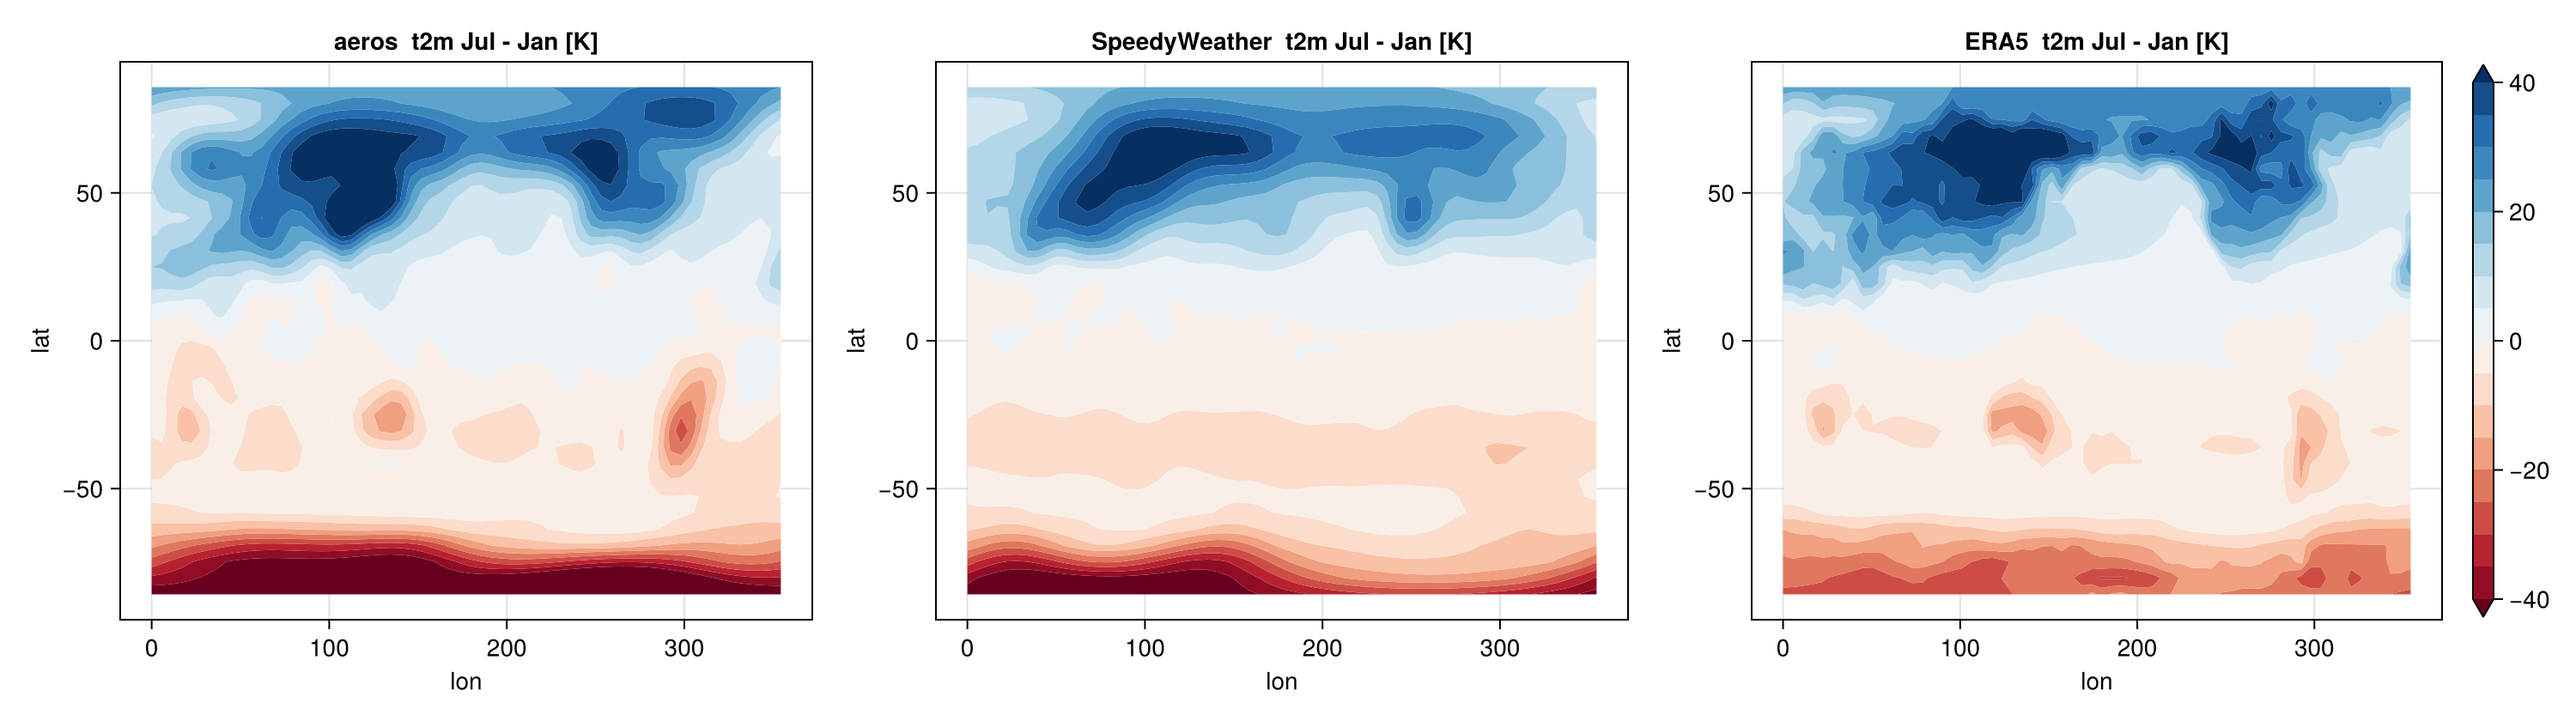
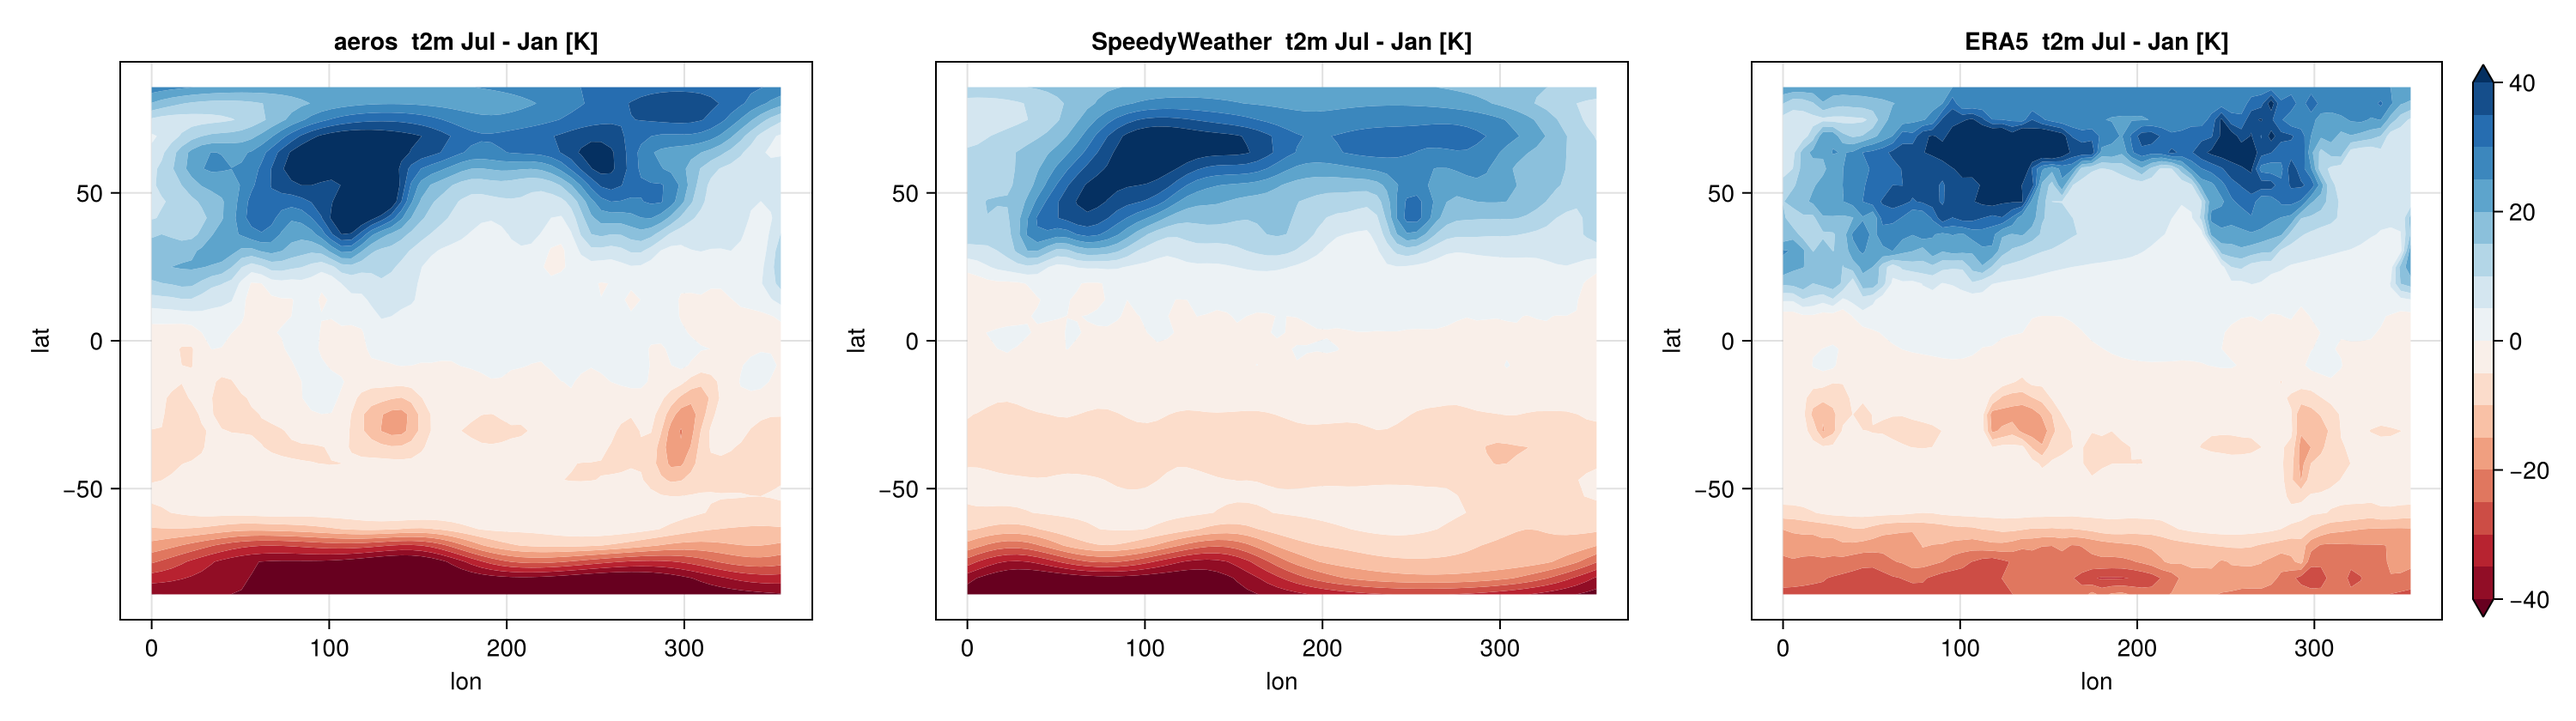
defaults: L6 vertical grid; L6 real-Earth climatology (P 2.2 mm/day, Z500* 85 m, 2810 SYPD)

Changed region(s): [[0.062, 0.1238, 0.31, 0.4333], [0.062, 0.4643, 0.31, 0.7119], [0.062, 0.681, 0.31, 0.8357]]

diff --git a/docs/m2_handoff.md b/docs/m2_handoff.md
@@ -9,7 +9,7 @@ All on `main` (last commits 59657fa, 90e9408, 63c7c4e), 26/26 tests, built with
 real-Earth T21 run: ERA5 orography, ERA5 land-sea mask with the bucket land + snow albedo,
 prescribed 2D seasonal ERA5 SST, seasonal insolation, ecCKD radiation with diagnostic clouds,
 Frierson SBM convection, SpeedyWeather-style condensation. **Namelist:**
-`mwm/D_realearth/aeros_realearth_T21L8.nml` (only physical keys; every numerical/core knob
+`mwm/D_realearth/aeros_realearth_T21L6.nml` (only physical keys; every numerical/core knob
 comes from `input/rce_defaults.nml`, which now IS the production recipe).
 
 Since the 2026-07-30 handoff the integration and the coupling were rebuilt (details in the
@@ -23,7 +23,7 @@ log sections below). What is different and load-bearing:
 | surface exchange | bulk-Richardson log-law coefficient per point (SW/Frierson 2006); SW surface wind (0.95 slowdown + 5 m/s gust) | fixed 1.5e-3, 1 m/s wind floor |
 | speed-limit drag | quadratic above 70 m/s (SW's default is 80) | none |
 | dynamical core | ∇⁸/4 h, divergence ∇⁸→∇⁴ above σ=0.2 on 1 h, α=1, no sponge — as defaults | opt-in |
-| vertical grid | **L8** default (stretched hybrid; L12 a namelist choice) | L12 |
+| vertical grid | **L6** default (stretched hybrid; L8/L12 namelist choices) | L12 |
 | dt | **3600 s** at T21 | 900 s |
 | monthly climatology | grid diagnostics refreshed at each sample; + precip2d, z500, vlow, evap, shf | stale (state of the last report) |
 
@@ -37,8 +37,8 @@ water-creating transport and stale monthly sampling. Treat them as history, not 
 |---|---|---|
 | L4 | 3650 | stable; harness metrics as good as L8 |
 | L5 | 3250 | |
-| L6 | 2860 | **to become the default next session** |
-| L8 | 2190 | current default; the 3-yr climatology below |
+| L6 | 2810 | **default since 2026-09-06**; the 3-yr climatology below |
+| L8 | 2190 | default 2026-09-05/06; `docs/refs/realearth_metrics_2026-09-05.md` |
 | L12 | 1870 | previous default |
 | SpeedyWeather T21L8 default | 1040 (1360 without the diagnostic callback) | leapfrog, dt 3600 |
 
@@ -46,12 +46,15 @@ Cost is close to linear in levels with a fixed overhead (transforms and physics 
 per level); aeros is ~2.5× faster than SpeedyWeather per step. L20 blew up at day 354 at
 dt=3600 (not investigated). SpeedyWeather's 8 levels are SPEEDY's (Molteni 2003).
 
-### Climatology, L8, 3 yr (aeros / SpeedyWeather / ERA5) — `docs/refs/realearth_metrics_2026-09-05.md`
+### Climatology, L6, 3 yr (aeros / SpeedyWeather / ERA5) — `docs/refs/realearth_metrics_2026-09-06_L6.md`
 
-precip = evap 2.0 / 3.3 / 2.9 mm/day · TOA −0.2 W/m² · lowest-level T 284.7 / 278 / 287.5 K
-· max [u] 56 / 63 / 34 m/s · DJF NH Z500* RMS 77 / 68 / 76 m · NH-land t2m Jul−Jan
-32.5 / 29 / 33.6 K. Figures in `docs/figures/realearth_*.png`. aeros' zonal temperature
-structure is closer to ERA5 than SpeedyWeather's (SW is cold aloft with a 235 K lid).
+precip = evap 2.2 / 3.3 / 2.9 mm/day · TOA +3.2 W/m² in yr 3 (−3.7 in yr 2: ±3 interannual)
+· lowest-level T 283.5 / 278 / 287.5 K · max [u] 52 / 63 / 34 m/s · DJF NH Z500* RMS
+85 / 68 / 76 m · NH-land t2m Jul−Jan 31.9 / 29 / 33.6 K · 2810 SYPD. Figures in
+`docs/figures/realearth_*.png`. Against L8 (`docs/refs/realearth_metrics_2026-09-05.md`):
+precip +0.2, lowest level 1.2 K colder, lid 226 vs 222 K, Z500* 85 vs 77 m (ERA5 76), +28%
+throughput. aeros' zonal temperature structure is closer to ERA5 than SpeedyWeather's
+(SW is cold aloft with a 235 K lid).
 
 **Known deficits, in the order to attack them:**
 1. **Saturated upper troposphere / lid** (RH ~100% above 200 hPa; ERA5 30–50%, SW dry at its
@@ -78,10 +81,10 @@ make all openmp=1 && make rce-long openmp=1
 # the 26 tests
 for t in libaeros/bin/test_*.x; do OMP_NUM_THREADS=5 $t > logs/suite_$(basename $t .x).log 2>&1 || echo FAIL $t; done
 # aeros 3-yr real-Earth climatology (2-yr spin-up + 1 yr monthly), ~2 min
-OMP_NUM_THREADS=10 libaeros/bin/rce_long.x mwm/D_realearth/aeros_realearth_T21L8.nml
+OMP_NUM_THREADS=10 libaeros/bin/rce_long.x mwm/D_realearth/aeros_realearth_T21L6.nml
 # SpeedyWeather yardstick (~3.5 min), then the comparison (figures + metrics table)
 julia --project=mwm/D_realearth -t 10 mwm/D_realearth/sw_realearth.jl 730 1 21 8
-julia mwm/D_realearth/compare_realearth.jl mwm/D_realearth/output/aeros_realearth_T21L8.nc
+julia mwm/D_realearth/compare_realearth.jl mwm/D_realearth/output/aeros_realearth_T21L6.nc
 ```
 
 The `rce_long` report prints a `TOA:` and a `WATER:` line every `print_every` steps; the
@@ -96,9 +99,8 @@ at a clean end (not on a NaN).
 
 ### First actions next session
 
-1. Make **L6** the default: `input/aeros_defaults.nml` (`nlev`), the `nlev` declaration in
-   `drivers/rce_long.f90`, a new `mwm/D_realearth/aeros_realearth_T21L6.nml`; rerun the
-   climatology and `compare_realearth.jl`; commit with the numbers.
+1. ~~Make **L6** the default~~ — done 2026-09-06 (library + driver defaults, harness namelist
+   `aeros_realearth_T21L6.nml`, climatology above).
 2. Deficit 1 (upper-troposphere moisture), then deficit 2 (polar precipitation).
 3. Re-do the land t2m calibration through the harness afterwards (the old numbers are void).
 
@@ -225,6 +227,14 @@ Z500* 77 m (ERA5 76), t2m amplitude 32.5 K (ERA5 33.6), lowest-level T 284.7 (ER
 2190 SYPD (SW 1040). The evaporation gap is now the wind speed (5.2 m/s lowest level vs
 ERA5 ~7 at 10 m; the zonal means match, the eddies are weak) and the moist lowest layer
 (RH 80%).
+
+**Update 2026-09-06 (L6 default).** (xii) **L6 is the default vertical grid** (library + driver;
+L8/L12 stay namelist choices, Held–Suarez keeps L20). L6 real-Earth 3 yr, dt=3600, NaN-free,
+water residual −0.007 mm/day: P = E = 2.2 mm/day (L8 2.0; SW 3.3; ERA5 2.9), TOA −3.0/−3.7/+3.2
+W/m² over the three years, lowest-level T 283.5 K (L8 284.7; ERA5 287.5), lid 226 K (L8 222),
+max [u] 52 m/s (L8 56), DJF NH Z500* RMS 85 m (L8 77; ERA5 76), NH-land t2m amplitude 31.9 K
+(L8 32.5; ERA5 33.6), **2810 SYPD** (L8 2190; SW 1040). The metrics move within the level-sweep
+scatter; the stationary wave is the one that worsens (85 vs 76 m).
 
 **►► NEXT (in order):**
 1. **Re-validate the climate at full-rate physics.** The 1-yr aquaplanet at dt=3600 has OLR

diff --git a/docs/refs/realearth_metrics_2026-09-06_L6.md b/docs/refs/realearth_metrics_2026-09-06_L6.md
@@ -1,0 +1,17 @@
+# aeros vs SpeedyWeather vs ERA5, real-Earth T21 (aeros L6 default, 2026-09-06)
+
+aeros 3 yr (2 yr spin-up + 1 yr monthly), dt = 3600, TOA yr1/yr2/yr3 −3.0/−3.7/+3.2 W/m², P = E = 2.2 mm/day, water residual −0.007 mm/day.
+
+aeros: `mwm/D_realearth/output/aeros_realearth_T21L6.nc`  
+SW: `/Users/alrobi001/models/aeros/mwm/D_realearth/output/sw_realearth_T21L8.nc`
+
+| metric | aeros | SpeedyWeather | ERA5 |
+|---|---|---|---|
+| global-mean precip [mm/day] | 2.2 | 3.3 | 2.9 |
+| global-mean T, top level / 70 hPa [K] | 225.8 | 235.2 | 206.6 |
+| global-mean T, lowest level / 2 m [K] | 283.5 | 278.3 | 287.5 |
+| max annual zonal-mean u [m/s] | 52.0 | 63.0 | 33.7 |
+| max annual [u] at 200 hPa [m/s] | 43.5 | 41.2 | 31.3 |
+| DJF NH Z500* RMS 20-80N [m] | 85.1 | 68.3 | 76.1 |
+| t2m |Jul-Jan|, NH 40-70N land [K] | 31.9 | 29.2 | 33.6 |
+| throughput [SYPD, 10 threads] | 2810.4 | 1037.9 | NaN |

diff --git a/README.md b/README.md
@@ -14,7 +14,7 @@ with a divergence-only top taper, and the Held–Suarez (1994) benchmark.
 Moisture (FV transport, condensation, Betts–Miller convection), ecCKD/SESAM
 radiation, clouds, a slab ocean with sea ice, a bucket land surface with ERA5
 orography, and seasonal/orbital insolation are in; all column physics couples
-as rates or implicit boundary conditions. The real-Earth T21L8 configuration
+as rates or implicit boundary conditions. The real-Earth T21L6 configuration
 runs at dt = 3600 s, ~2200 model-yr/day on 10 cores. `docs/m2_handoff.md` is the current state.
 
 ```bash
